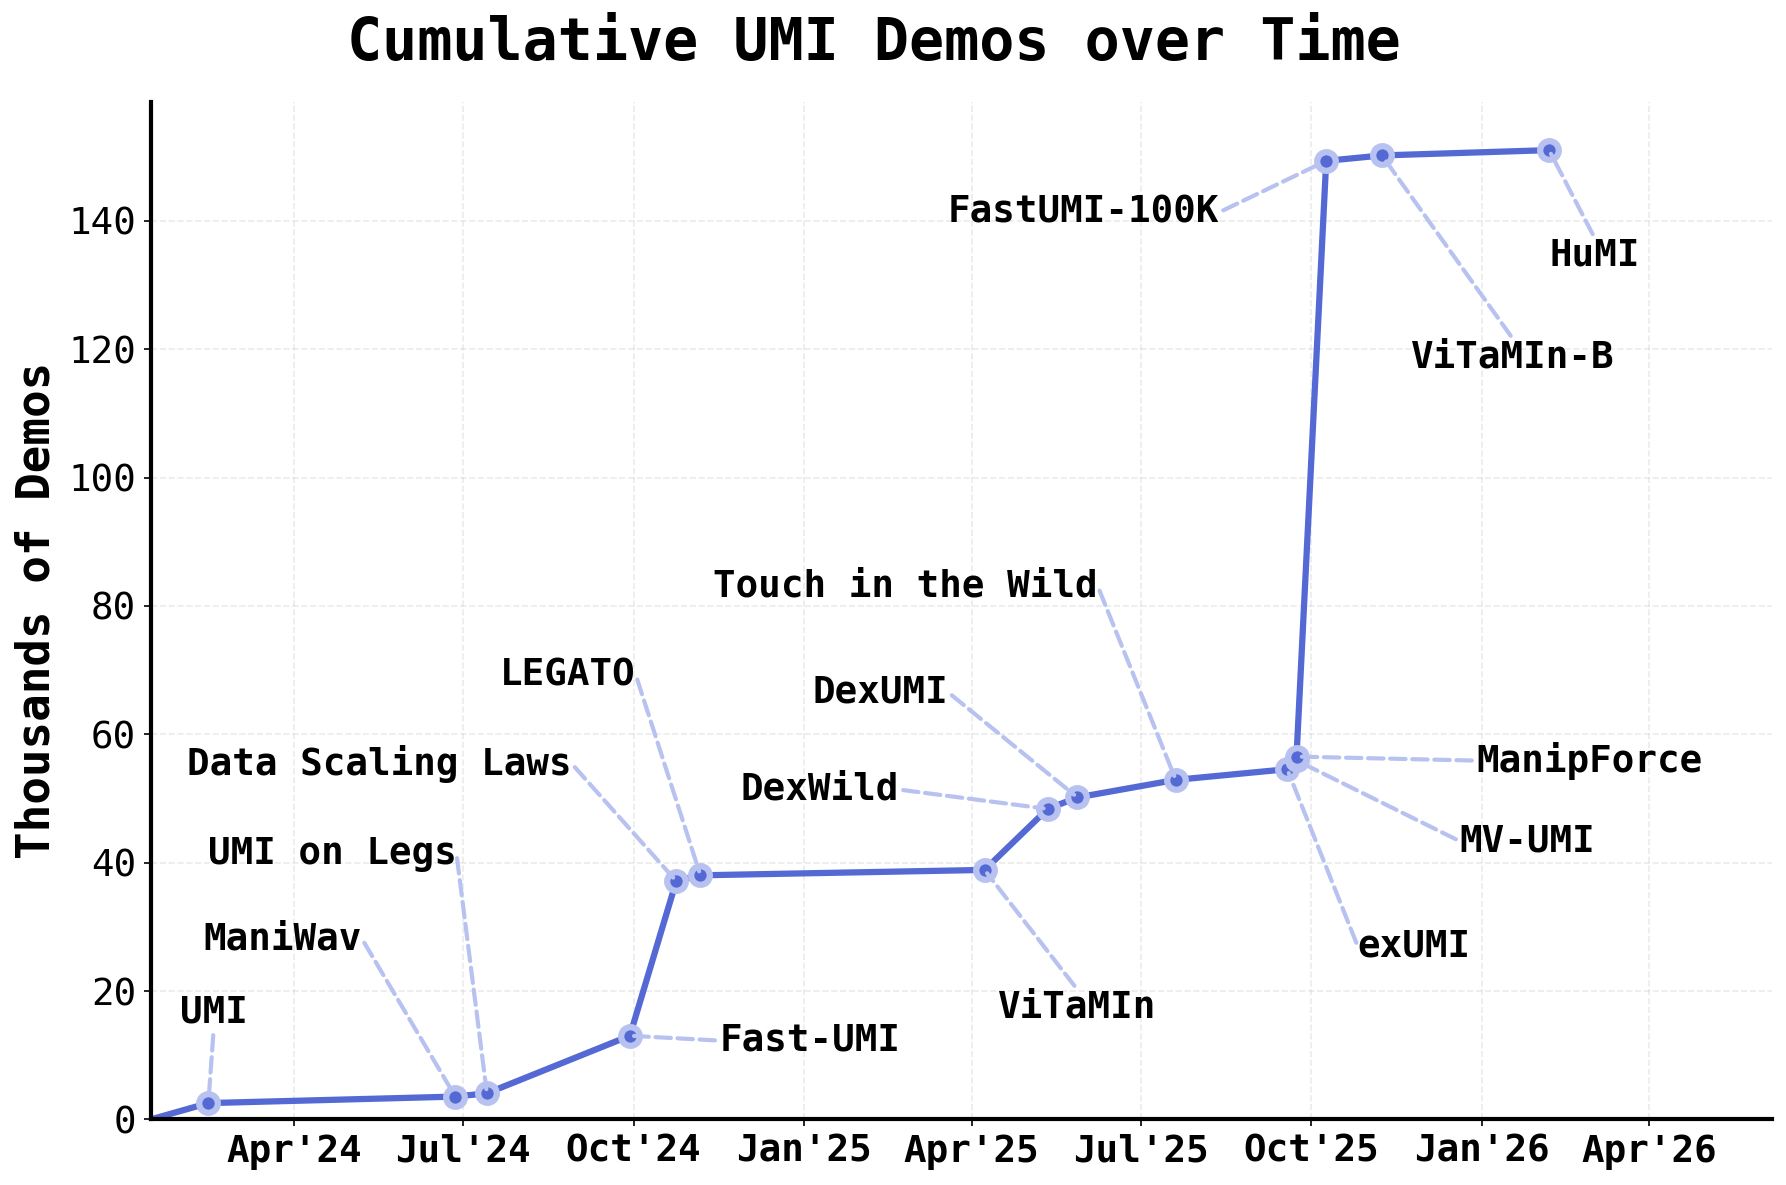
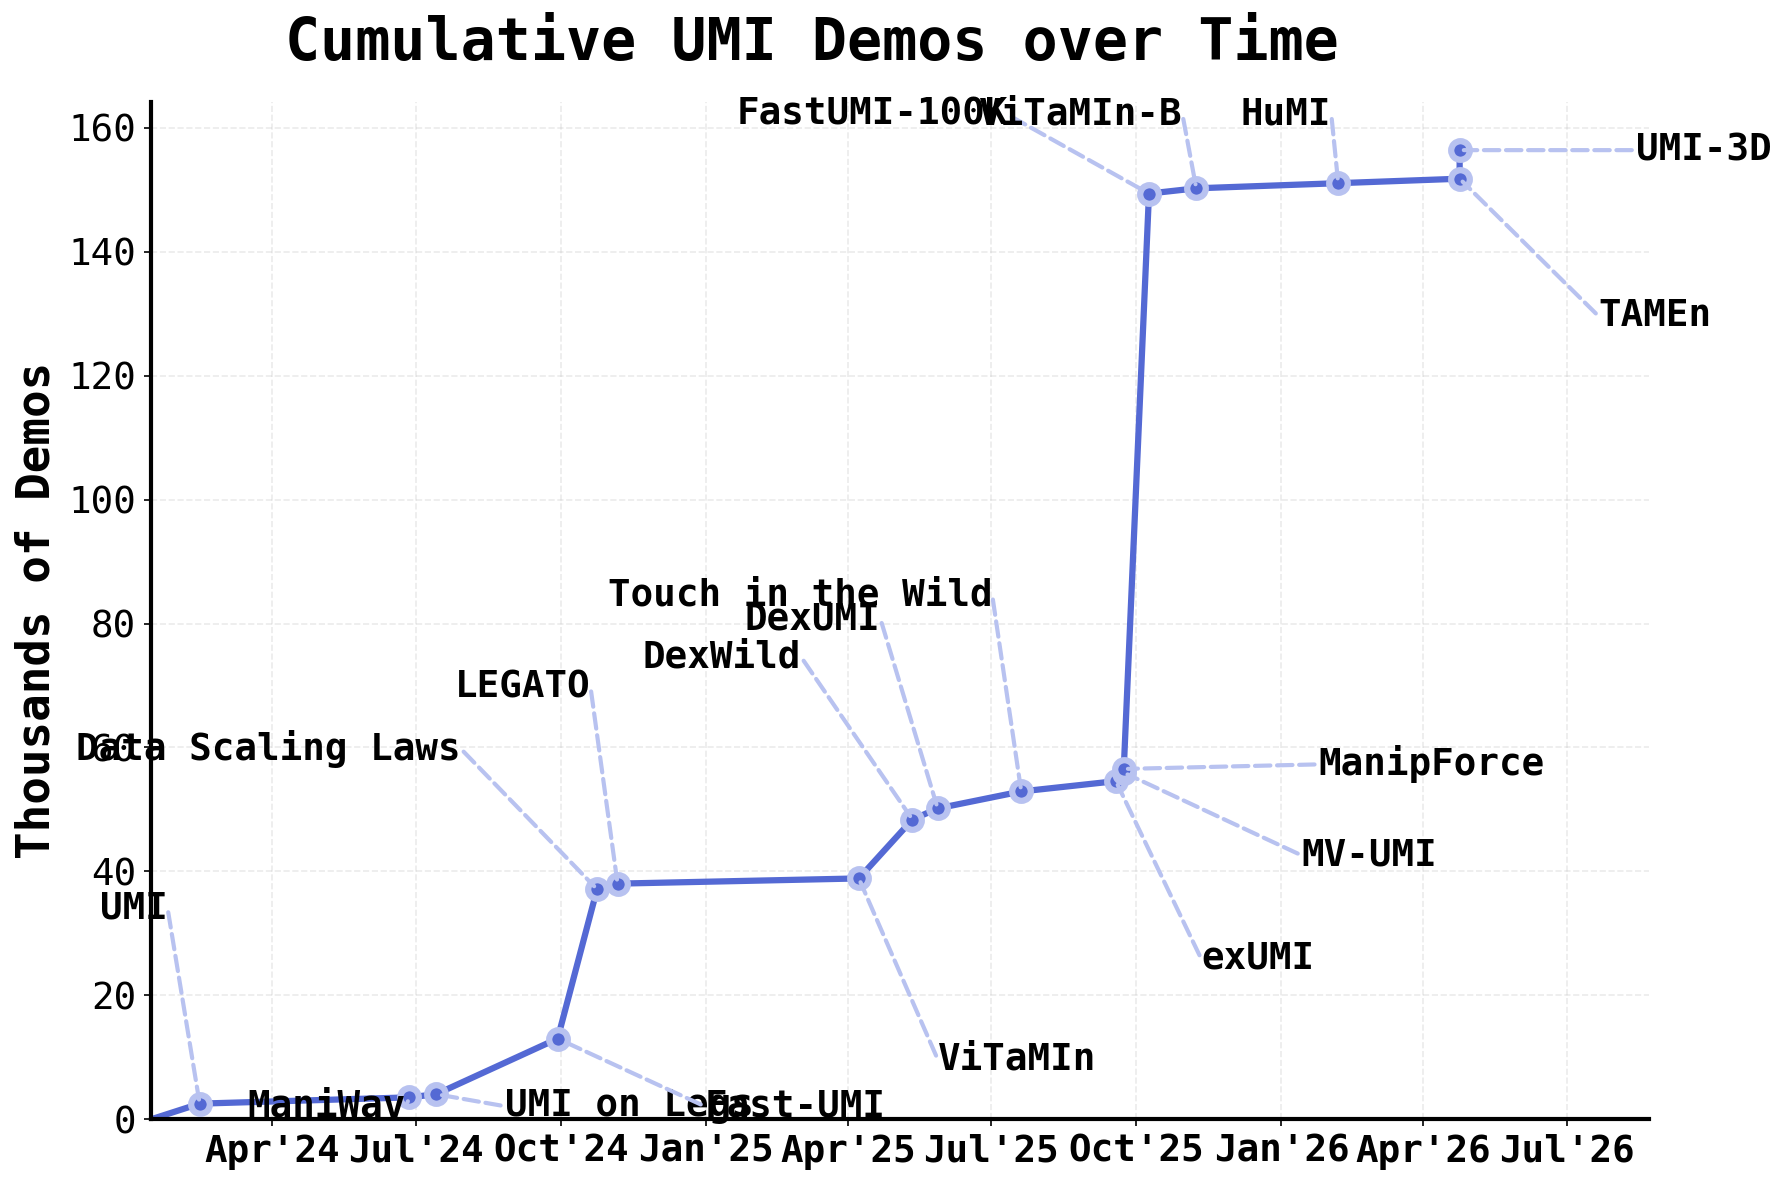
Update stats

diff --git a/plots/interactive_annotate.py b/plots/interactive_annotate.py
@@ -57,6 +57,8 @@ projects = [
                                         +4244+1265+2974+1740+2161+2161+2227),
     ("ViTaMIn-B",          "2025-11-08", 123+345+195+181),
     ("HuMI",               "2026-02-06", 103+105+105+104+410),
+    ("TAMEn",              "2026-04-24", 271+159+148+146),
+    ("UMI-3D",             "2026-04-24", 3500+769+340),
 ]
 
 projects   = sorted(projects, key=lambda x: x[1])

diff --git a/plots/plot_stats.py b/plots/plot_stats.py
@@ -31,6 +31,8 @@ projects = [
                                         +4244+1265+2974+1740+2161+2161+2227),
     ("ViTaMIn-B",          "2025-11-08", 123+345+195+181),
     ("HuMI",               "2026-02-06", 103+105+105+104+410),
+    ("TAMEn",              "2026-04-24", 271+159+148+146),
+    ("UMI-3D",             "2026-04-24", 3500+769+340),
 ]
 
 projects   = sorted(projects, key=lambda x: x[1])
